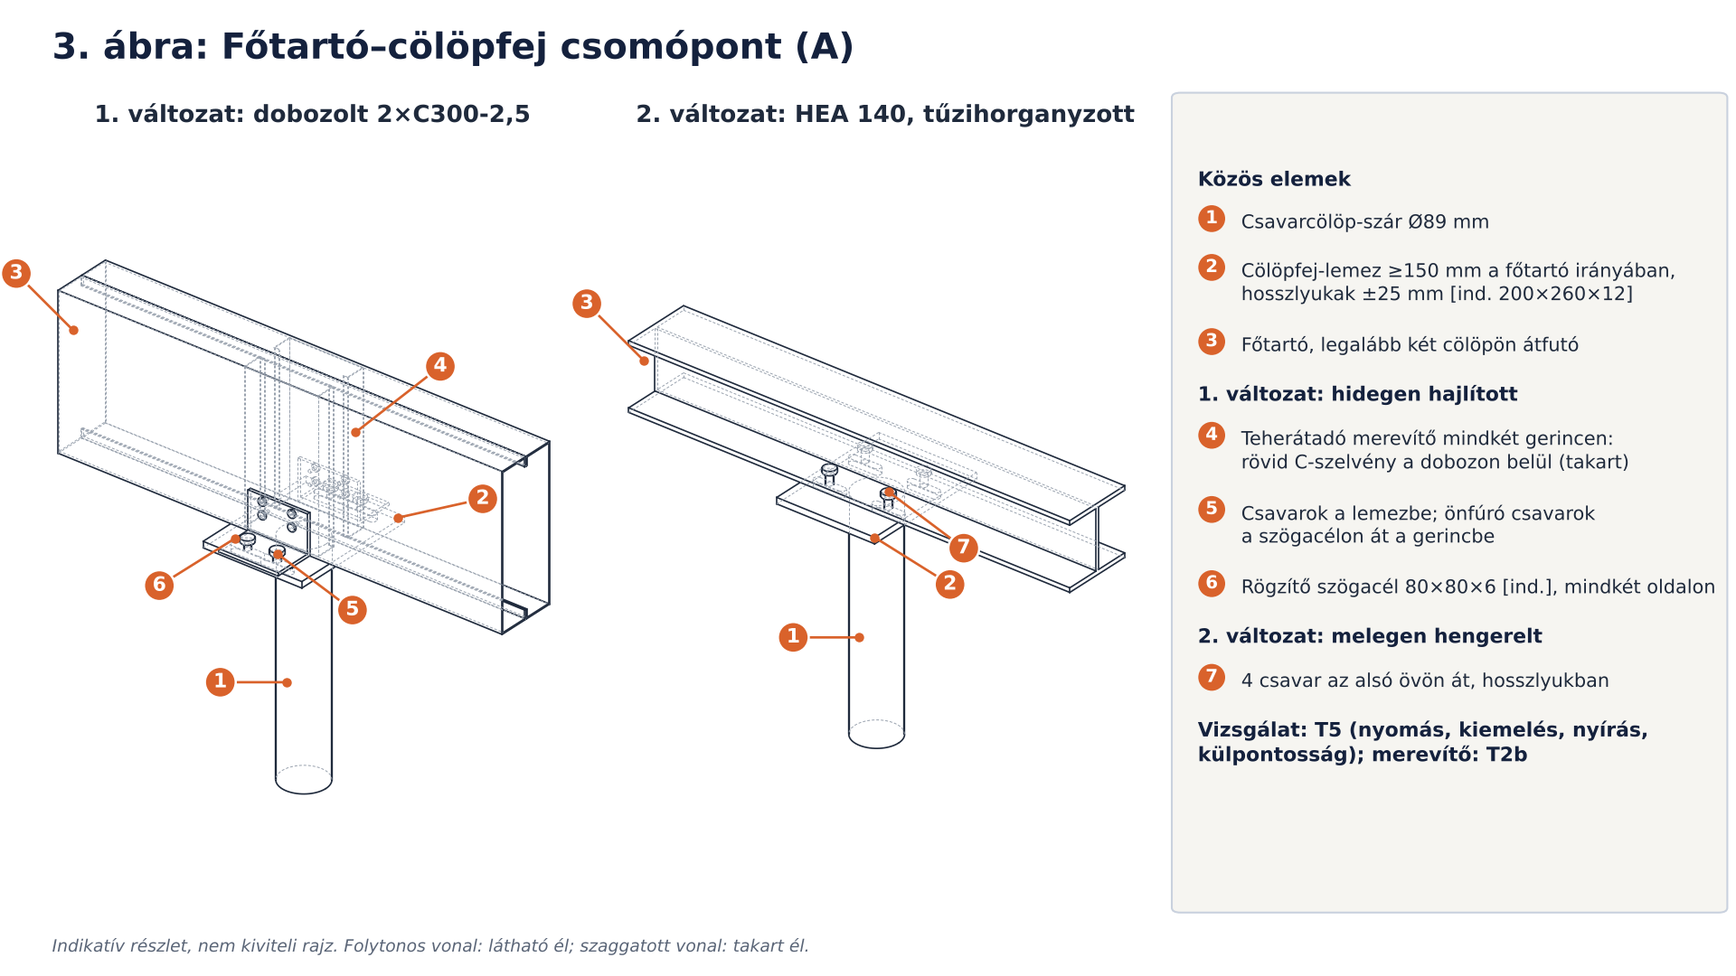
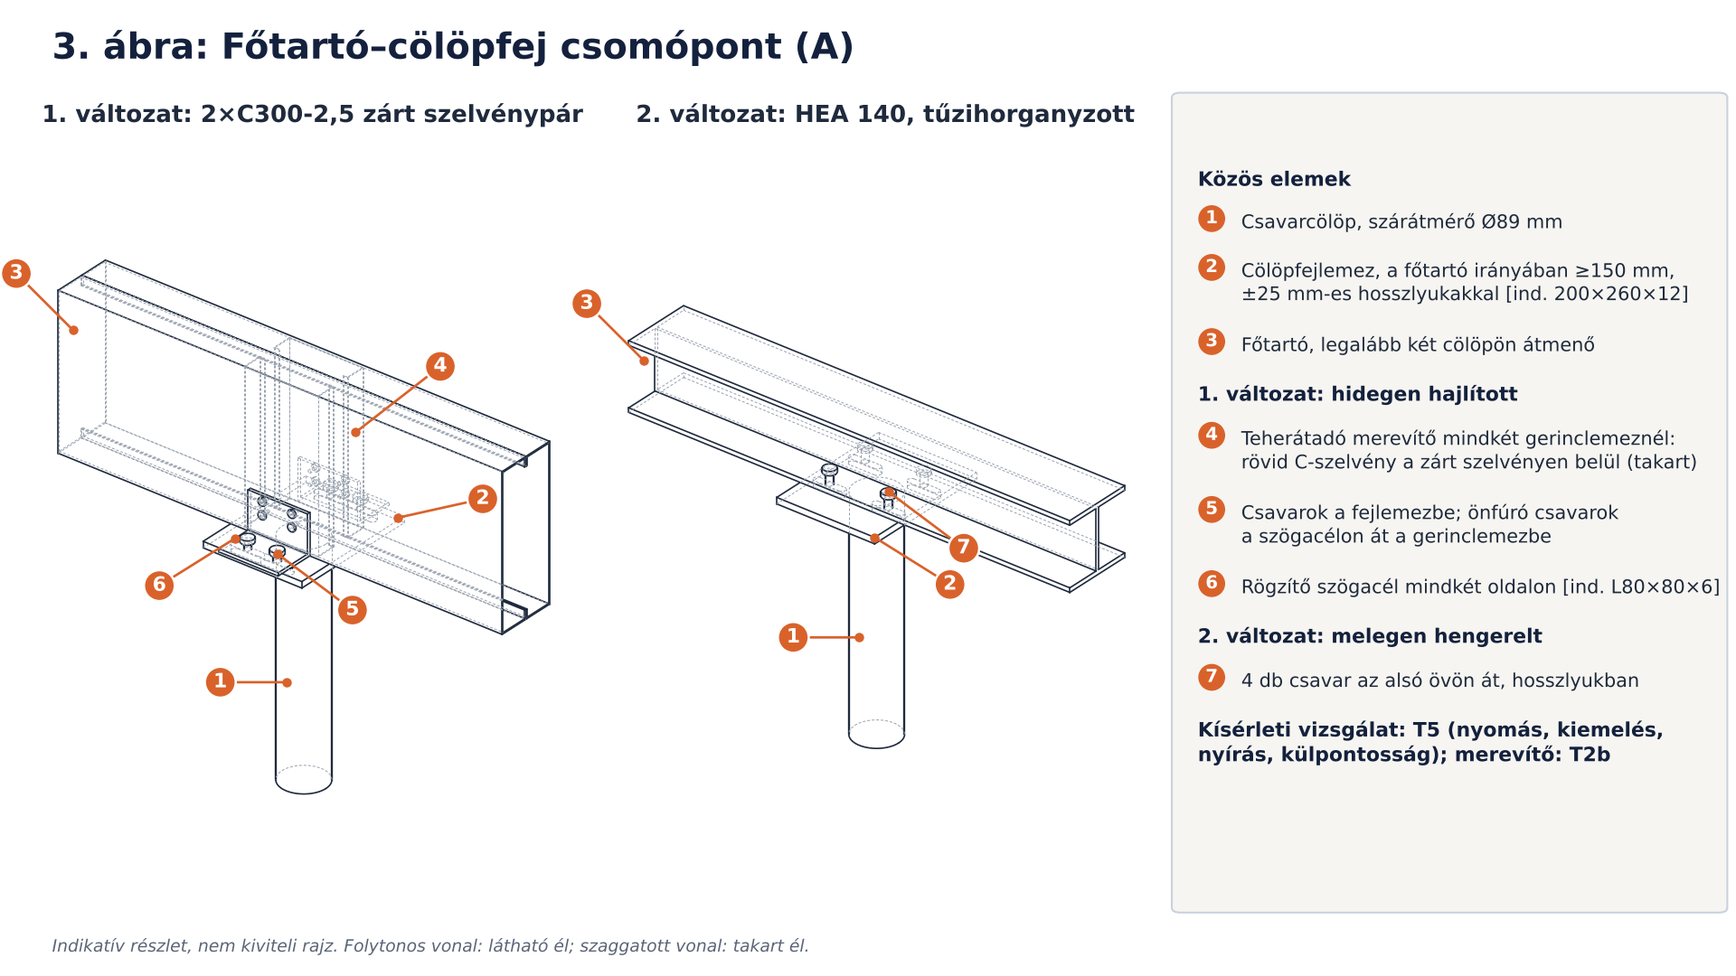
Detail figures: rework the Hungarian labels into plain technical Hungarian
Claude-Session: https://claude.ai/code/session_019wCyknV8T4reihZGWkXEZJ

diff --git a/docs/figures_details.py b/docs/figures_details.py
@@ -226,19 +226,19 @@ def fig_system(out):
     m.tag("A", (-90, 60, 12), (-45, 25)); m.tag("B", (700, 3060, zj + 30), (-35, 35)); m.tag("C", (1300, 0, zj + 100), (0, 45))
     m.tag("D", (625, 0, zb + 60), (-15, -45))
     fig, (ax,) = frame("1. ábra: A födémrendszer felépítése (sarokrészlet)", [
-        (None, "Tételek (alulról felfelé)"),
-        (1, "Csavarcölöp SP89-2500 (Ø89 mm szár,\nØ300 mm szárny), talajban"),
-        (2, "Cölöpfej-lemez hosszlyukakkal, ±25 mm"),
-        (3, "Főtartó: 1. változat, dobozolt 2×C300-2,5\n(2. változat: HEA 140, lásd 3. ábra)"),
-        (4, "Födémgerenda C200-1,5, 600 mm-enként,\na főtartók tetején felfekve"),
-        (5, "Peremprofil (U-sín) a gerendavégeken"),
-        (6, "OSB födémlap a gerendák tetején\n(csak egy része ábrázolva)"),
+        (None, "Elemek (alulról felfelé)"),
+        (1, "Csavarcölöp SP89-2500\n(szárátmérő Ø89 mm, csavarlevél Ø300 mm)"),
+        (2, "Cölöpfejlemez ±25 mm-es hosszlyukakkal"),
+        (3, "Főtartó; 1. változat: 2×C300-2,5 zárt\nszelvénypár, 2. változat: HEA 140 (3. ábra)"),
+        (4, "C200-1,5 födémgerenda 600 mm-es\ntengelytávolsággal, a főtartókra felfekszik"),
+        (5, "U-szelvényű peremprofil a gerendavégeken"),
+        (6, "OSB födémlap a gerendák felső övén\n(részlegesen ábrázolva)"),
         (None, "Csomópontok"),
         ("A", "Főtartó–cölöpfej (3. ábra)"),
-        ("B", "Gerenda–belső főtartó (4. ábra)"),
-        ("C", "Gerenda–peremprofil (5. ábra)"),
-        ("D", "Főtartó-toldás negyedpontban (6. ábra)"),
-    ], note="Indikatív részlet, nem kiviteli rajz. Takart élek nélkül.")
+        ("B", "Födémgerenda–közbenső főtartó (4. ábra)"),
+        ("C", "Födémgerenda–peremprofil (5. ábra)"),
+        ("D", "Főtartótoldás a negyedpontban (6. ábra)"),
+    ], note="Indikatív részlet, nem kiviteli rajz. A takart élek nincsenek ábrázolva.")
     m.draw(ax, ISO, hidden=False, lw=0.6)
     save(fig, out, "D01_rendszer.png")
 
@@ -275,17 +275,17 @@ def pile_head(concept):
 def fig_pile_head(out):
     fig, axes = frame("3. ábra: Főtartó–cölöpfej csomópont (A)", [
         (None, "Közös elemek"),
-        (1, "Csavarcölöp-szár Ø89 mm"),
-        (2, "Cölöpfej-lemez ≥150 mm a főtartó irányában,\nhosszlyukak ±25 mm [ind. 200×260×12]"),
-        (3, "Főtartó, legalább két cölöpön átfutó"),
+        (1, "Csavarcölöp, szárátmérő Ø89 mm"),
+        (2, "Cölöpfejlemez, a főtartó irányában ≥150 mm,\n±25 mm-es hosszlyukakkal [ind. 200×260×12]"),
+        (3, "Főtartó, legalább két cölöpön átmenő"),
         (None, "1. változat: hidegen hajlított"),
-        (4, "Teherátadó merevítő mindkét gerincen:\nrövid C-szelvény a dobozon belül (takart)"),
-        (5, "Csavarok a lemezbe; önfúró csavarok\na szögacélon át a gerincbe"),
-        (6, "Rögzítő szögacél 80×80×6 [ind.], mindkét oldalon"),
+        (4, "Teherátadó merevítő mindkét gerinclemeznél:\nrövid C-szelvény a zárt szelvényen belül (takart)"),
+        (5, "Csavarok a fejlemezbe; önfúró csavarok\na szögacélon át a gerinclemezbe"),
+        (6, "Rögzítő szögacél mindkét oldalon [ind. L80×80×6]"),
         (None, "2. változat: melegen hengerelt"),
-        (7, "4 csavar az alsó övön át, hosszlyukban"),
-        (None, "Vizsgálat: T5 (nyomás, kiemelés, nyírás,\nkülpontosság); merevítő: T2b"),
-    ], n_axes=2, subtitles=["1. változat: dobozolt 2×C300-2,5", "2. változat: HEA 140, tűzihorganyzott"])
+        (7, "4 db csavar az alsó övön át, hosszlyukban"),
+        (None, "Kísérleti vizsgálat: T5 (nyomás, kiemelés,\nnyírás, külpontosság); merevítő: T2b"),
+    ], n_axes=2, subtitles=["1. változat: 2×C300-2,5 zárt szelvénypár", "2. változat: HEA 140, tűzihorganyzott"])
     pile_head(1).draw(axes[0], ISO); pile_head(2).draw(axes[1], ISO)
     save(fig, out, "D03_colopfej.png")
 
@@ -314,13 +314,13 @@ def joist_bearer(concept):
 
 def fig_joist_bearer(out):
     fig, axes = frame("4. ábra: Gerenda–főtartó csomópont (B)", [
-        (None, "Tételek"),
-        (1, "Főtartó (1.: 2×C300-2,5 dobozolt;\n2.: HEA 140)"),
-        (2, "Födémgerenda C200-1,5, a főtartó\ntetején felfekve, folytatólagosan"),
-        (3, "Kapcsolószögacél a gerenda alsó övén,\na C nyitott oldalán [ind. 40×64×4]"),
-        (4, "Kötőelemek: csavar a gerinclemezbe;\n1.: önfúró csavar az öveken át,\n2.: csavar a HEA felső övén át"),
-        (None, "Vizsgálat: T4 (gerendabekötések);\na csúszás a födém merevségébe\nés rezgésébe számít"),
-    ], n_axes=2, subtitles=["1. változat: dobozolt 2×C300-2,5", "2. változat: HEA 140"])
+        (None, "Elemek"),
+        (1, "Főtartó (1.: 2×C300-2,5 zárt szelvénypár;\n2.: HEA 140)"),
+        (2, "C200-1,5 födémgerenda, a főtartóra\nfelfekszik, azon folytatólagosan átmegy"),
+        (3, "Kapcsolószögacél a gerenda alsó övén,\na C-szelvény nyitott oldalán [ind. 40×64×4]"),
+        (4, "Kötőelemek: önfúró csavar a gerinclemezbe;\n1.: önfúró csavar mindkét övön át,\n2.: csavar a HEA felső övén át"),
+        (None, "Kísérleti vizsgálat: T4 (gerendabekötések);\na kapcsolat elcsúszása befolyásolja\na födém merevségét és rezgését"),
+    ], n_axes=2, subtitles=["1. változat: 2×C300-2,5 zárt szelvénypár", "2. változat: HEA 140"])
     joist_bearer(1).draw(axes[0], ISO); joist_bearer(2).draw(axes[1], ISO)
     save(fig, out, "D04_gerenda_fotarto.png")
 
@@ -343,14 +343,14 @@ def fig_joist_rim(out):
     m.tag(1, (500, 120, -150), (40, -15)); m.tag(2, (-350, 30, 206), (-35, 30)); m.tag(3, (300 + 25, 650, 201.5), (30, 25))
     m.tag(4, (325, 25, 210), (25, 40)); m.tag(5, (-200 - 40, 30, 120), (-45, -20)); m.tag(6, (300 + 25, 5.5, 160), (45, 25))
     fig, (ax,) = frame("5. ábra: Gerenda–peremprofil csomópont (C)", [
-        (None, "Tételek (nézet a födém belseje felől)"),
-        (1, "Szélső főtartó a cölöpvonalon"),
-        (2, "Peremprofil U-sín [ind. U206-1,5] a főtartón"),
-        (3, "Födémgerenda C200-1,5, vége a sínben"),
-        (4, "Önfúró csavar a sín övén át a gerenda övébe"),
-        (5, "Gerinc-/teherátadó merevítő a gerendavégen\n(szükség szerint, AISI S240-15, B2.5)"),
-        (6, "Kapcsolószögacél [ind. 45×70×4]: csavarozva\na gerenda és a peremprofil gerincéhez"),
-        (None, "Vizsgált változatok (T4): szögacél,\nkihajtott fül, kivágott (beillesztett) vég"),
+        (None, "Elemek (nézet a födém belseje felől)"),
+        (1, "Szélső főtartó a cölöpsoron"),
+        (2, "U-szelvényű peremprofil a főtartón\n[ind. U206-1,5]"),
+        (3, "C200-1,5 födémgerenda, vége\na peremprofilba illeszkedik"),
+        (4, "Önfúró csavar a peremprofil övén át\na gerenda övébe"),
+        (5, "Gerinchorpadás elleni merevítő a gerendavégen\n(szükség szerint, AISI S240-15, B2.5)"),
+        (6, "Kapcsolószögacél [ind. 45×70×4], csavarozva\na gerenda és a peremprofil gerinclemezéhez"),
+        (None, "Vizsgált kialakítások (T4): szögacél,\nkihajtott fül, bemetszett gerendavég"),
     ])
     m.draw(ax, (1.0, 1.4, 1.9))
     save(fig, out, "D05_gerenda_perem.png")
@@ -387,12 +387,12 @@ def splice(concept):
 
 def fig_splice(out):
     fig, axes = frame("6. ábra: Főtartó folytatólagossága és toldása (D)", [
-        (None, "Szabályok (FLINS-CFS-006)"),
-        (1, "Cölöp; a következő 2,0–3,0 m-re\n(az ábrán példa: 2,5 m, toldás 625 mm-re)"),
-        (2, "A főtartó legalább két cölöpön\nfolytatólagosan fut át"),
-        (3, "Toldás a negyedpontban (L/4 a cölöptől),\nahol a nyomaték kicsi"),
-        (None, "1.: két oldali hevederlemez, önfúró\ncsavarokkal [ind.]; 2.: csavarozott gerinc-\nés övheveder [ind.]"),
-    ], n_axes=2, subtitles=["1. változat: dobozolt 2×C300-2,5", "2. változat: HEA 140"])
+        (None, "Kialakítási szabályok (FLINS-CFS-006)"),
+        (1, "Cölöp; cölöptávolság 2,0–3,0 m\n(az ábrán 2,5 m, a toldás 625 mm-re)"),
+        (2, "A főtartó legalább két cölöpön\nát folytatólagos"),
+        (3, "Toldás a negyedpontban (L/4-re a cölöptől),\nahol a hajlítónyomaték kicsi"),
+        (None, "1.: kétoldali hevederlemez önfúró\ncsavarokkal [ind.]; 2.: csavarozott\ngerinc- és övheveder [ind.]"),
+    ], n_axes=2, subtitles=["1. változat: 2×C300-2,5 zárt szelvénypár", "2. változat: HEA 140"])
     splice(1).draw(axes[0], (0.9, -1.4, 0.8)); splice(2).draw(axes[1], (0.9, -1.4, 0.8))
     save(fig, out, "D06_toldas.png")
 
@@ -429,14 +429,14 @@ def section(ax, layers, width=600, wool="full"):
 def fig_fire(out):
     fig = plt.figure(figsize=(W, H), dpi=DPI)
     fig.patch.set_facecolor("#FFFFFF")
-    fig.text(0.03, 0.94, "9. ábra: Tűzvédelmi rétegrendek (alulról ható tűz)", fontsize=19, fontweight="bold", color=NAVY)
-    fig.text(0.03, 0.025, "Előtervezési ökölszabály (SCI P402, 2.2.2), nem osztályozás. A minősítés osztályozott gyártói rendszerből "
-             "vagy MSZ EN 1365-2 vizsgálatból jön (FLINS-CFS-004).", fontsize=9, color=MUTED, style="italic")
-    deck = ("Nútféderes födémlap 18 mm\n(OSB / forgácslap)", 18, "#E9D9B8", "////")
-    joists = ("C200-1,5 gerendák; ásványgyapot\nNEM a tűz felőli övön [ind.]", 200, None, None)
-    b1 = ("Tűzgátló gipszkarton 12,5 mm", 12.5, "#F3D9D0", "...")
-    b2 = ("2. réteg tűzgátló gipszkarton 12,5 mm,\neltolt illesztésekkel", 12.5, "#F3D9D0", "xxx")
-    for k, (layers, sub) in enumerate([([deck, joists, b1], "REI 30 (pl. családi ház, ellenőrizendő)"),
+    fig.text(0.03, 0.94, "9. ábra: Tűzvédelmi rétegrendek alulról érő tűzhatásra", fontsize=19, fontweight="bold", color=NAVY)
+    fig.text(0.03, 0.025, "Előtervezési ökölszabály (SCI P402, 2.2.2), nem osztályba sorolás. A minősítés osztályba sorolt gyártói "
+             "rendszerből vagy MSZ EN 1365-2 szerinti vizsgálatból származik (FLINS-CFS-004).", fontsize=9, color=MUTED, style="italic")
+    deck = ("Nútféderes födémlap, 18 mm\n(OSB vagy forgácslap)", 18, "#E9D9B8", "////")
+    joists = ("C200-1,5 gerendák; az ásványgyapot nem\na tűz felőli (alsó) övre fekszik [ind.]", 200, None, None)
+    b1 = ("Tűzgátló gipszkarton, 12,5 mm", 12.5, "#F3D9D0", "...")
+    b2 = ("2. réteg tűzgátló gipszkarton, 12,5 mm,\neltolt illesztésekkel", 12.5, "#F3D9D0", "xxx")
+    for k, (layers, sub) in enumerate([([deck, joists, b1], "REI 30 (pl. családi ház; ellenőrizendő)"),
                                        ([deck, joists, b2, b1], "REI 60 (lakáselválasztó födém)")]):
         ax = fig.add_axes([0.03 + k * 0.49, 0.30, 0.46, 0.56]); ax.set_aspect("equal"); ax.axis("off")
         fig.text(0.03 + k * 0.49 + 0.23, 0.875, sub, ha="center", fontsize=12.5, fontweight="bold", color=INK)
@@ -444,11 +444,11 @@ def fig_fire(out):
         for xf in (80, 230, 380, 530):          # fire exposure from below
             ax.annotate("", (xf, -12), (xf, -150), arrowprops=dict(arrowstyle="-|>", color="#C0392B", lw=2))
         ax.text(300, -215, "tűzhatás", ha="center", fontsize=10, color="#C0392B", fontweight="bold")
-    notes = ("A tűzállóságot a burkolat és rögzítése adja, nem az acél: védetlen gerenda R 15-re sem elég (350 °C pár perc alatt).\n"
-             "• A burkolat leválásakor ér véget a tűzállóság: lemeztípus, rétegszám, csavarkiosztás, eltolt illesztések döntenek.\n"
-             "• A gerenda alsó övére fektetett szigetelés bent tartja a hőt és rövidítheti a tűzállóságot (Queensland-vizsgálatok).\n"
-             "• A főtartónak és a cölöpfejnek ugyanazt a minősítést kell tudnia; a nyitott kúszótérben a csupasz acél védetlen.\n"
-             "• Felső födémnél felülről ható tűzre: OSB + nem éghető réteg (gipszrost / száraz esztrich), ha előírt.")
+    notes = ("A tűzállóságot a burkolat és annak rögzítése adja, nem az acélszerkezet: védelem nélkül a födém R 15-re sem alkalmas\n(a gerenda néhány perc alatt eléri a 350 °C-ot).\n"
+             "• A tűzállóság a burkolat leválásával ér véget; a lemeztípus, a rétegszám, a csavarkiosztás és az eltolt illesztés a meghatározó.\n"
+             "• Az alsó övre fektetett hőszigetelés visszatartja a hőt, és csökkentheti a tűzállóságot (queenslandi kísérletek).\n"
+             "• A főtartónak és a cölöpfejnek ugyanazt a tűzállóságot kell biztosítania; nyitott kúszótérben a csupasz acél védelem nélküli.\n"
+             "• Emeleti födémnél, felülről érő tűzhatásra: OSB és nem éghető réteg (gipszrost lemez vagy száraz esztrich), ha előírás.")
     fig.text(0.04, 0.09, notes, fontsize=10, color=INK, linespacing=1.45)
     save(fig, out, "D09_tuzvedelem.png")
 
@@ -456,20 +456,20 @@ def fig_fire(out):
 def fig_buildup(out):
     fig = plt.figure(figsize=(W, H), dpi=DPI)
     fig.patch.set_facecolor("#FFFFFF")
-    fig.text(0.03, 0.94, "7. ábra: Födém-rétegrendek (metszet a gerendákra merőlegesen)", fontsize=19, fontweight="bold", color=NAVY)
-    fig.text(0.03, 0.025, "Indikatív rétegrendek; [ind.] = feltételezett vastagság. Az elválasztó födém értékei az SCI P320–P322 "
-             "várható értékei, nem FlexInSheet-mérések.", fontsize=9, color=MUTED, style="italic")
+    fig.text(0.03, 0.94, "7. ábra: Födémrétegrendek (metszet a gerendákra merőlegesen)", fontsize=19, fontweight="bold", color=NAVY)
+    fig.text(0.03, 0.025, "Indikatív rétegrendek; [ind.] = feltételezett vastagság. Az elválasztó födém rétegrendje az SCI P320–P322 "
+             "alapján felvett, a FlexInSheet-födémen nem mért kialakítás.", fontsize=9, color=MUTED, style="italic")
     single = [("Padlóburkolat (nem része a rendszernek)", 10, "white", ""),
               ("OSB födémlap [ind. 22 mm]", 22, "#E9D9B8", "////"),
-              ("C200-1,5 gerendák 600 mm-enként,\nközte ásványgyapot [ind. 100 mm]", 200, None, None),
-              ("Gipszkarton álmennyezet, 1 réteg [ind. 12,5 mm]", 12.5, "#EEEEEE", "...")]
-    separ = [("Nehéz felső réteg: gipszrost / száraz\nesztrich [ind. 25 mm]", 25, "#DDD6C8", "xx"),
-             ("Rugalmas réteg [ind. 10 mm]", 10, "#D6E4F0", "---"),
+              ("C200-1,5 gerendák, 600 mm-es tengely-\ntávolság; közöttük ásványgyapot\n[ind. 100 mm]", 200, None, None),
+              ("Gipszkarton álmennyezet, egy réteg [ind. 12,5 mm]", 12.5, "#EEEEEE", "...")]
+    separ = [("Nehéz felső réteg: gipszrost lemez vagy\nszáraz esztrich [ind. 25 mm]", 25, "#DDD6C8", "xx"),
+             ("Rugalmas alátétréteg [ind. 10 mm]", 10, "#D6E4F0", "---"),
              ("OSB födémlap [ind. 22 mm]", 22, "#E9D9B8", "////"),
-             ("C200-1,5 gerendák, közte\n100 mm ásványgyapot", 200, None, None),
-             ("Rugalmas sín [ind. 25 mm]", 25, "white", ""),
-             ("2×15 mm hangszigetelő gipszkarton", 30, "#EEEEEE", "...")]
-    for k, (layers, sub) in enumerate([(single, "Családi ház (száraz rétegrend)"), (separ, "Elválasztó födém (többlakásos)")]):
+             ("C200-1,5 gerendák, közöttük\n100 mm ásványgyapot", 200, None, None),
+             ("Rugalmas akusztikai sín [ind. 25 mm]", 25, "white", ""),
+             ("2 × 15 mm hanggátló gipszkarton", 30, "#EEEEEE", "...")]
+    for k, (layers, sub) in enumerate([(single, "Családi ház (száraz rétegrend)"), (separ, "Lakáselválasztó födém (többlakásos épület)")]):
         ax = fig.add_axes([0.03 + k * 0.49, 0.08, 0.46, 0.78]); ax.set_aspect("equal"); ax.axis("off")
         fig.text(0.03 + k * 0.49 + 0.23, 0.875, sub, ha="center", fontsize=12.5, fontweight="bold", color=INK)
         width = 600
@@ -492,17 +492,17 @@ def fig_buildup(out):
         ax.annotate("", (-40, 0), (-40, total), arrowprops=dict(arrowstyle="<->", lw=0.8, color=MUTED))
         ax.text(-55, total / 2, f"≈ {total:g} mm".replace(".", ","), rotation=90, ha="right", va="center", fontsize=10, color=MUTED)
         ax.set_xlim(-130, width + 900); ax.set_ylim(-220, total + 220)
-    fig.text(0.52, 0.09, "Célértékek: R'w + C ≥ 51 dB, L'n,w ≤ 55 dB (MSZ 15601-1, ellenőrizendő).\n"
-             "Tűz: osztályozott rendszer (30 perc) vagy egy MSZ EN 1365-2\nkemencevizsgálat (60 perc).", fontsize=10, color=INK)
+    fig.text(0.52, 0.09, "Akusztikai követelmény: R'w + C ≥ 51 dB, L'n,w ≤ 55 dB\n(MSZ 15601-1, ellenőrizendő).\n"
+             "Tűzvédelem: osztályba sorolt rendszer (30 perc) vagy\nMSZ EN 1365-2 szerinti kemencevizsgálat (60 perc).", fontsize=10, color=INK)
     save(fig, out, "D07_retegrendek.png")
 
 
 def fig_profiles(out):
     fig = plt.figure(figsize=(W, H), dpi=DPI)
     fig.patch.set_facecolor("#F6F5F1")
-    fig.text(0.03, 0.94, "2. ábra: Szelvények (keresztmetszetek, 1:5 egységes léptékben)", fontsize=19, fontweight="bold", color=NAVY)
-    fig.text(0.03, 0.025, "Hidegen hajlított szelvények: S350GD+Z, a fejlesztői katalógus ideiglenes családja (a hengerlő profilkészlete szerint véglegesül). "
-             "A peremprofil mérete indikatív.", fontsize=9, color=MUTED, style="italic")
+    fig.text(0.03, 0.94, "2. ábra: Szelvények keresztmetszete (egységes léptékben)", fontsize=19, fontweight="bold", color=NAVY)
+    fig.text(0.03, 0.025, "Hidegen hajlított szelvények: S350GD+Z; a fejlesztői katalógus ideiglenes szelvénycsaládja, a hengerlő profilkészlete "
+             "alapján véglegesítendő. A peremprofil mérete indikatív.", fontsize=9, color=MUTED, style="italic")
     ax = fig.add_axes([0.02, 0.08, 0.96, 0.8]); ax.set_aspect("equal"); ax.axis("off")
 
     def draw_rects(rects, ox, oy, color):
@@ -523,11 +523,11 @@ def fig_profiles(out):
 
     items = [
         (0, real_c(*C200), "C200-1,5\nfödémgerenda", 200, 50, COL["cfs"]),
-        (230, real_c(300, 60, 18, 2.5), "C300-2,5\nlegmélyebb szelvény", 300, 60, COL["cfs"]),
+        (230, real_c(300, 60, 18, 2.5), "C300-2,5\nlegnagyobb magasság", 300, 60, COL["cfs"]),
         (500, real_c(300, 60, 18, 2.5) + [(u0 + 120, u1 + 120, v0, v1) for u0, u1, v0, v1 in real_c(300, 60, 18, 2.5, True)],
-         "2×C300-2,5 dobozolt\nfőtartó, 1. változat", 300, 120, COL["cfs"]),
-        (790, [(u0 + 70, u1 + 70, v0, v1) for u0, u1, v0, v1 in i_rects(*HEA140)], "HEA 140, tűzihorg.\nfőtartó, 2. változat", 133, 140, COL["hot"]),
-        (1060, [(u0 + 50, u1 + 50, v0, v1) for u0, u1, v0, v1 in rhs_rects(150, 100, 5)], "RHS 150×100×5\nkis magasságnál", 150, 100, COL["hot"]),
+         "2×C300-2,5 zárt\nszelvénypár, 1. változat", 300, 120, COL["cfs"]),
+        (790, [(u0 + 70, u1 + 70, v0, v1) for u0, u1, v0, v1 in i_rects(*HEA140)], "HEA 140, tűzihorg.,\n2. változat", 133, 140, COL["hot"]),
+        (1060, [(u0 + 50, u1 + 50, v0, v1) for u0, u1, v0, v1 in rhs_rects(150, 100, 5)], "RHS 150×100×5\nkorlátozott magasságnál", 150, 100, COL["hot"]),
         (1290, [(0, 1.5, 0, 206), (0, 60, 0, 1.5), (0, 60, 204.5, 206)],
          "U206-1,5 peremprofil\n[ind.]", 206, 60, COL["cfs2"]),
     ]
@@ -548,8 +548,8 @@ def fig_plan(out, dxf):
     lay = generate_layout(plan)
     fig = plt.figure(figsize=(W, H), dpi=DPI)
     fig.patch.set_facecolor("#F6F5F1")
-    fig.text(0.03, 0.94, "8. ábra: Kiosztási alaprajz a csomópontok helyével (U alakú mintaház)", fontsize=19, fontweight="bold", color=NAVY)
-    fig.text(0.03, 0.025, "A tervezőeszköz kimenete, ideiglenes fesztávtáblákkal (nem GMNIA-/Eurocode-ellenőrzött). A toldás helye példa.",
+    fig.text(0.03, 0.94, "8. ábra: Kiosztási alaprajz a csomópontok jelölésével (U alakú mintaház)", fontsize=19, fontweight="bold", color=NAVY)
+    fig.text(0.03, 0.025, "A tervezőprogram eredménye ideiglenes fesztávtáblázatokkal (GMNIA-számítással és Eurocode szerint még nem ellenőrzött). A toldás helye példa.",
              fontsize=9, color=MUTED, style="italic")
     ax = fig.add_axes([0.02, 0.07, 0.64, 0.84]); ax.set_aspect("equal"); ax.axis("off")
     for r in plan.regions:
@@ -570,20 +570,23 @@ def fig_plan(out, dxf):
                 bbox=dict(boxstyle="circle,pad=0.3", fc=ORANGE, ec="white"))
     allx = [v[0] for r in plan.regions for v in r.polygon]; ally = [v[1] for r in plan.regions for v in r.polygon]
     ax.set_xlim(min(allx) - 900, max(allx) + 900); ax.set_ylim(min(ally) - 900, max(ally) + 900)
+    import re
     info = lay.flags[0].text.split(": ", 1)[-1] if lay.flags else ""
-    info = info.replace(" (util", "\n(util").replace(", bearers", ",\nbearers").replace(", piles", ",\npiles")
+    mt = re.match(r"(\S+) @ (\d+) mm, (\d+) bay\(s\) of (\d+) mm \(util\. ([\d.]+)\), bearers (\S+), piles (\S+) @ (\d+) mm", info)
+    hu = lambda v: v.replace(".", ",")
+    info_hu = (f"Födémgerenda: {hu(mt[1])}, {mt[2]} mm-enként\n{mt[3]} mező × {mt[4]} mm (kihasználtság {hu(mt[5])})\n"
+               f"Főtartó: {hu(mt[6]).replace('x', '×')}\nCölöp: {mt[7]}, {mt[8]} mm-enként") if mt else info
     legend(fig, [
         (None, "Jelmagyarázat"),
-        (1, "Födémgerendák (kék), 600 mm-enként"),
+        (1, "Födémgerendák (kék), 600 mm-es\ntengelytávolsággal"),
         (2, "Főtartók (piros) a cölöpsorokon"),
         (3, "Csavarcölöpök (zöld)"),
         (None, "Csomópontok"),
         ("A", "Főtartó–cölöpfej (3. ábra)"),
-        ("B", "Gerenda–főtartó (4. ábra)"),
-        ("C", "Gerenda–peremprofil (5. ábra)"),
-        ("D", "Toldás negyedpontban (6. ábra)"),
-        (None, "Eszköz-eredmény:\n" + info.replace(".", ",").replace(" @ ", " / ").replace("bay(s) of", "mező ×").replace("util,", "kihaszn.")
-         .replace("bearers", "főtartó").replace("piles", "cölöp")),
+        ("B", "Födémgerenda–főtartó (4. ábra)"),
+        ("C", "Födémgerenda–peremprofil (5. ábra)"),
+        ("D", "Főtartótoldás a negyedpontban (6. ábra)"),
+        (None, "A program eredménye:\n" + info_hu),
     ])
     save(fig, out, "D08_alaprajz.png")
 
